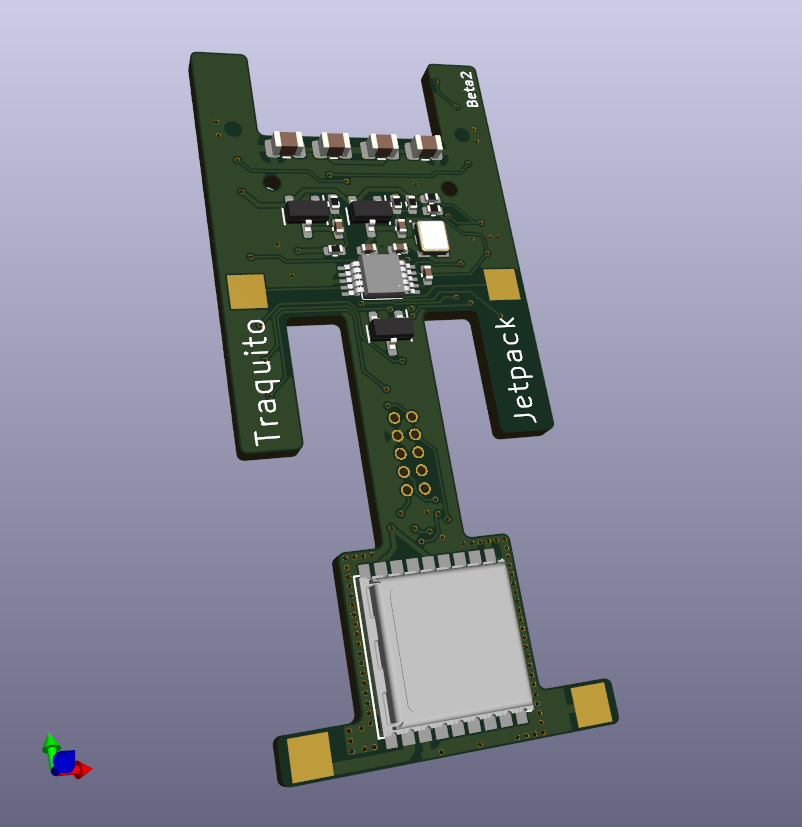
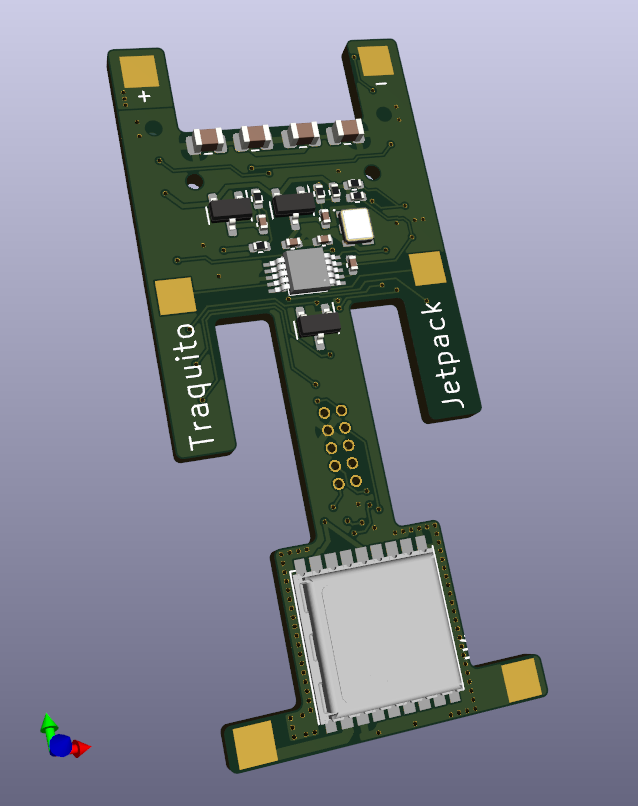
tracker update images to v1, make visible

Changed region(s): [[0.1489, 0.031, 0.8636, 0.9615], [0.0596, 0.8685, 0.1489, 0.9615]]

diff --git a/index.html b/index.html
@@ -53,7 +53,6 @@
             <span>Decoder</span>
         </a>
       </section>
-      <!--
       <section class="tile">
         <a href="/tracker/" target="_blank">
             <div class="heightlimit">
@@ -62,7 +61,6 @@
             <span>Tracker Hardware</span>
         </a>
       </section>
-     -->
       <section class="tile">
         <a href="/trackergui/" target="_blank">
             <div class="heightlimit">

diff --git a/tracker/index.html b/tracker/index.html
@@ -15,8 +15,8 @@
 <link rel="stylesheet" type="text/css" href="/css/traquito.css">
 <style>
 .imagetable img {
-    height: 413px;
-    width: 401px;
+    height: 403px;
+    width: 319px;
 }
 </style>
   </head>
